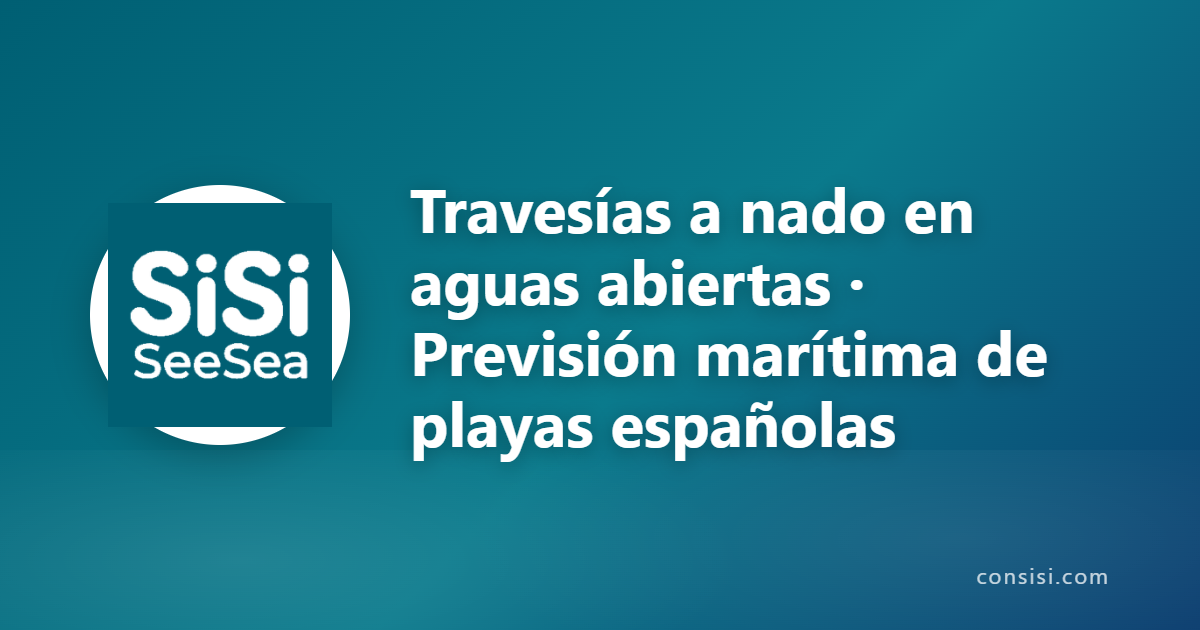
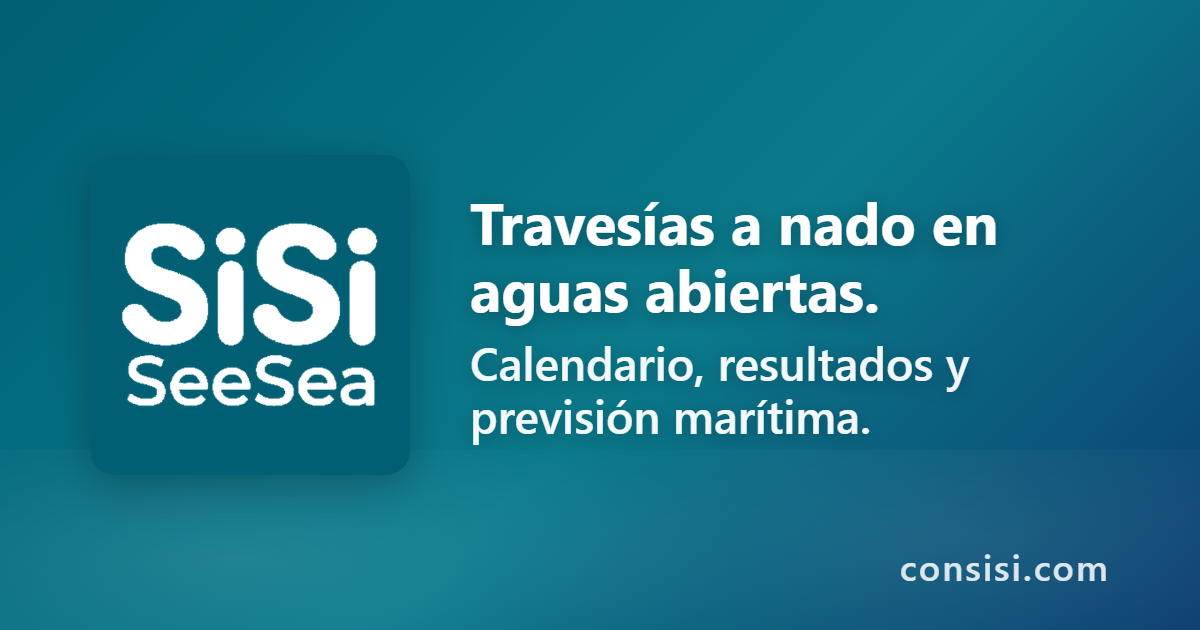
Nueva imagen OG, revision al compartir evento. Nuevo Evento add-evento. Correción de literales Mi Calendario.

Changed region(s): [[0.0617, 0.2714, 0.8942, 0.7238], [0.2158, 0.6333, 0.7708, 0.754], [0.74, 0.8746, 0.925, 0.9349]]

diff --git a/src/app/pages/evento-view/evento-view.page.ts b/src/app/pages/evento-view/evento-view.page.ts
@@ -118,7 +118,17 @@ export class EventoViewPage implements OnInit, OnDestroy {
   }
 
   onToggleFavorito(evento: Evento): void {
+    const eraFavorito = this.localRepositoryService.esFavoritoEvento(evento);
     this.localRepositoryService.toggleFavoritoEvento(evento);
+    if (!eraFavorito) {
+      this.localRepositoryService.deviceId$.subscribe((deviceId) => {
+        this.supabaseService.registraDispositivo({
+          id_dispositivo: deviceId,
+          accion: 'ADD-EVENTO',
+          data: String(evento.id),
+        }).catch((error) => console.error('Error al registrar dispositivo en Supabase:', error));
+      });
+    }
   }
 
   private setJsonLd(evento: Evento, canonicalPath: string): void {

diff --git a/src/app/pages/evento-list/evento-list.page.ts b/src/app/pages/evento-list/evento-list.page.ts
@@ -211,7 +211,17 @@ export class EventoListPage implements OnInit, OnDestroy {
   }
 
   onToggleFavorito(evento: Evento) {
+    const eraFavorito = this.localRepositoryService.esFavoritoEvento(evento);
     this.localRepositoryService.toggleFavoritoEvento(evento);
+    if (!eraFavorito) {
+      this.localRepositoryService.deviceId$.subscribe((deviceId) => {
+        this.supabaseService.registraDispositivo({
+          id_dispositivo: deviceId,
+          accion: 'ADD-EVENTO',
+          data: String(evento.id),
+        }).catch((error) => console.error('Error al registrar dispositivo en Supabase:', error));
+      });
+    }
   }
 
   onEventoClick(evento: Evento) {
